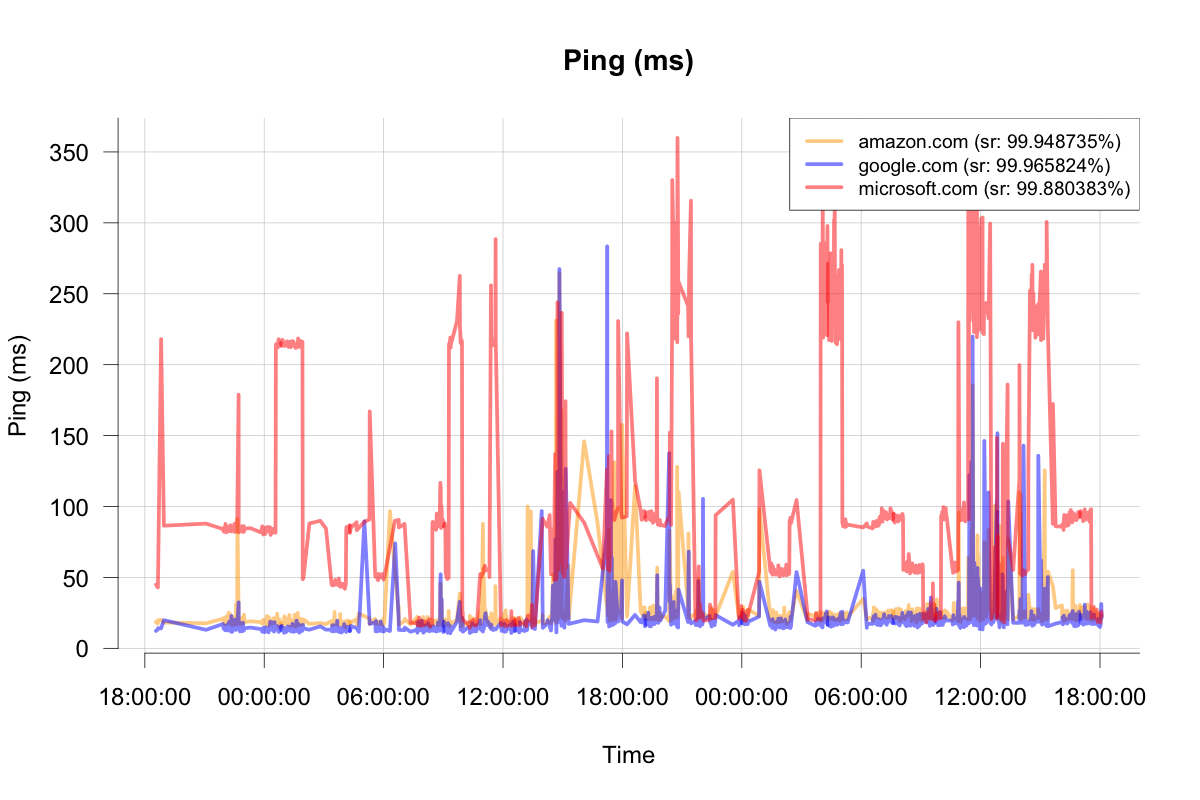
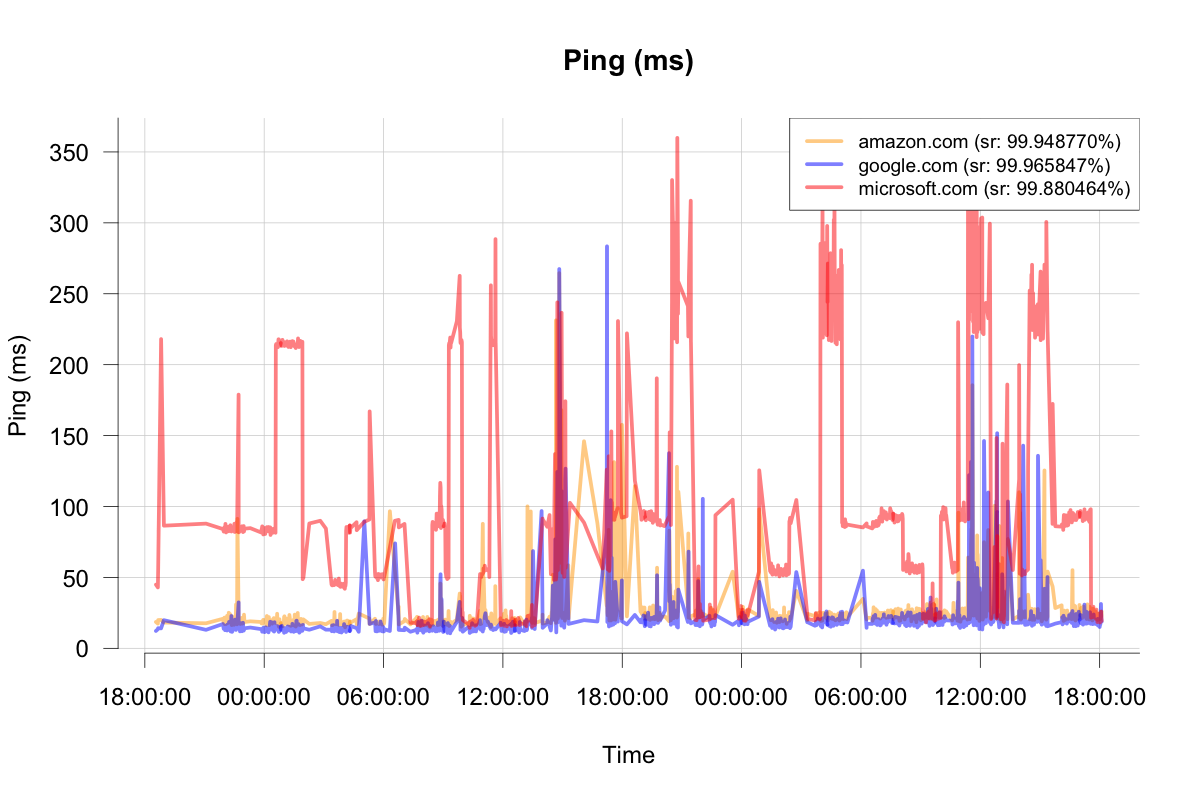
update netmon

diff --git a/netmon/index.html b/netmon/index.html
@@ -1,10 +1,7 @@
-Network Monitor - last updated Sun Oct 20 18:05:10 EDT 2024
+Network Monitor - last updated Sun Oct 20 18:06:10 EDT 2024
 ![Ping](netmon.png)
 ```
 time                 site           snd  rec  min_ms  avg_ms  max_ms  sd
-2024-10-20 17:46:01  google.com     4    4    12.191  18.925  21.683  3.905
-2024-10-20 17:46:04  amazon.com     4    4    15.470  26.227  46.558  12.119
-2024-10-20 17:46:08  microsoft.com  4    4    18.728  22.384  24.738  2.230
 2024-10-20 17:47:00  google.com     4    4    12.740  17.168  24.937  4.759
 2024-10-20 17:47:03  amazon.com     4    4    18.380  26.128  35.433  6.107
 2024-10-20 17:47:06  microsoft.com  4    4    22.064  25.605  33.018  4.349
@@ -62,6 +59,9 @@ time                 site           snd  rec  min_ms  avg_ms  max_ms  sd
 2024-10-20 18:05:00  google.com     4    4    18.877  21.358  26.031  2.881
 2024-10-20 18:05:03  amazon.com     4    4    19.740  22.576  25.340  2.623
 2024-10-20 18:05:07  microsoft.com  4    4    19.727  23.137  25.512  2.174
+2024-10-20 18:06:00  google.com     4    4    17.763  18.754  19.630  0.667
+2024-10-20 18:06:03  amazon.com     4    4    19.975  25.953  34.563  5.360
+2024-10-20 18:06:07  microsoft.com  4    4    16.051  19.360  22.924  2.957
 ```
 
 <!-- This will refresh the page every 60 seconds -->
